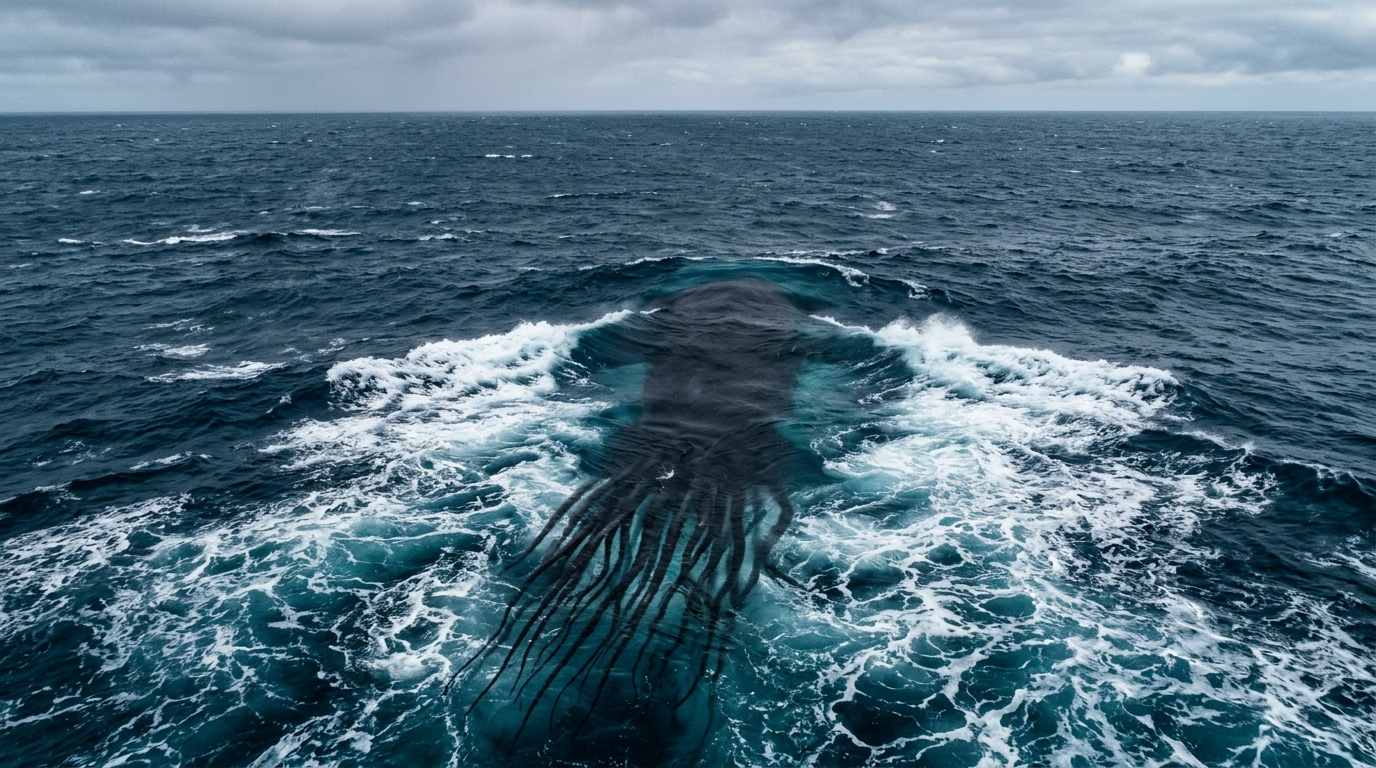
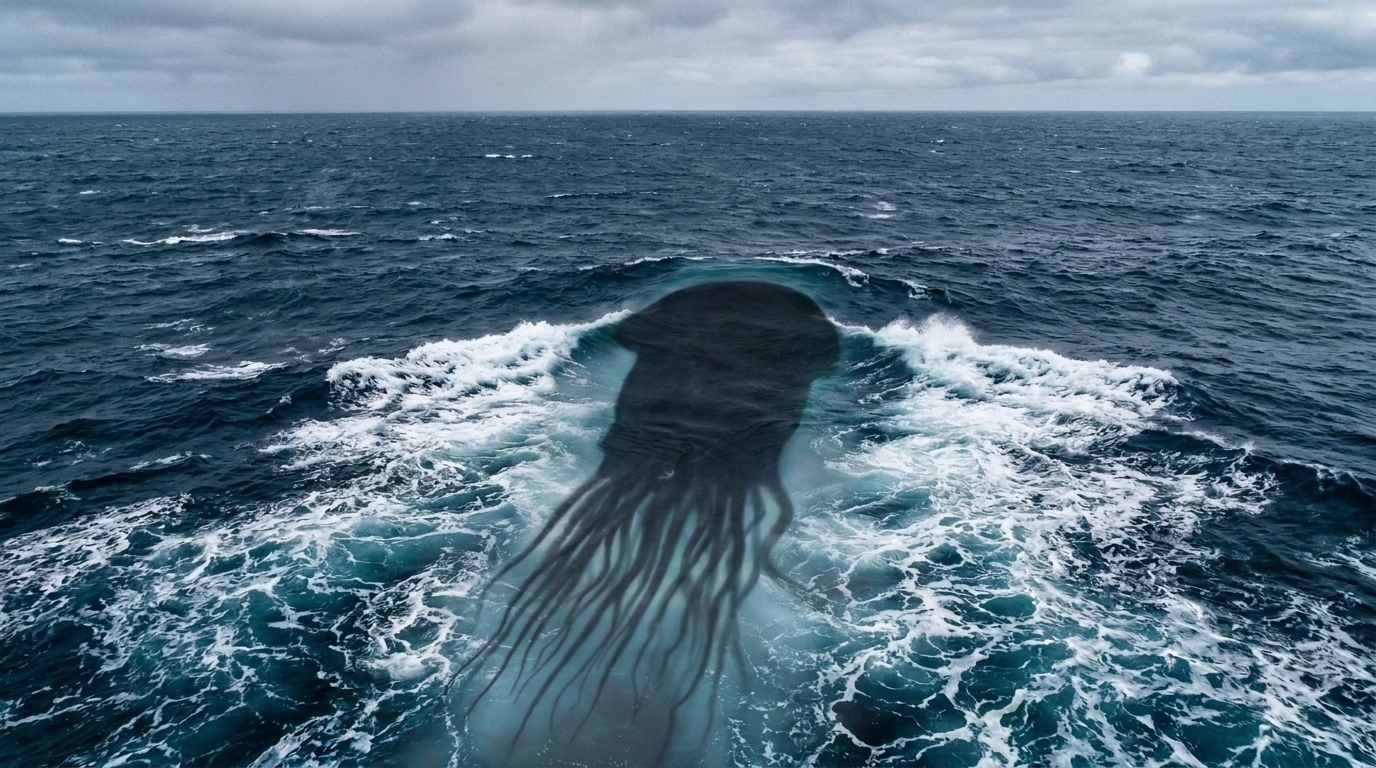
fix(photo): 成功写真の先頭形状からイカの三角形突起を完全排除し、ケルビン波（白波）下に沈むぼやけた無数の触手群へ刷新

diff --git a/src/components/TimelineBoard.tsx b/src/components/TimelineBoard.tsx
@@ -980,13 +980,13 @@ export const TimelineBoard: React.FC<TimelineBoardProps> = ({
 
                           <div className="space-y-1.5 text-[11px] text-slate-300 leading-relaxed">
                             <p>
-                              ・<strong className="text-white">広大な横幅の超群体</strong>: 単体のイカ頭部ではなく、<strong>横幅数百メートルに及ぶ広大な海面下の生体質量</strong>として深海シャドウを記録。
+                              ・<strong className="text-white">広大な横幅の超群体</strong>: イカ特有の三角形頭部や側方ヒレではなく、<strong>先端が滑らかになだらかな弧を描く広大な海面下の漆黒シャドウ</strong>として記録。
                             </p>
                             <p>
-                              ・<strong className="text-white">無数の増殖触手群</strong>: 幅広い後背部全体から、<strong>ダイオウイカ多数が結合した膨大な本数の触手</strong>が束ねられ、海中深くを直線的にたなびく圧倒的シルエット。
+                              ・<strong className="text-white">白波下のぼやけた触手群</strong>: 激しく沸き立つケルビン波（白波・航跡波）の層の<strong>真下の深海に無数の触手が沈んでおり、泡立つ海水を通してぼんやりと透けて見える</strong>深海シルエット。
                             </p>
                             <p>
-                              ・<strong className="text-white">巨大な航跡波</strong>: 広大な横幅の遊泳に伴い、海面には猛烈な白波とV字型のケルビン波が発生。
+                              ・<strong className="text-white">航跡波との平行流動</strong>: 前進遊泳に伴うV字型の白波と、深海に沈む無数の触手群が同調して後方へ直線的に展開。
                             </p>
                           </div>
                         </div>
@@ -1696,8 +1696,8 @@ export const TimelineBoard: React.FC<TimelineBoardProps> = ({
                 {day3PhotoModal === "success" ? (
                   <>
                     ・高度2,500フィート、捜索ヘリ通常光学望遠カメラより前進遊泳する巨大生物の後方からの撮影に成功。<br />
-                    ・単体のイカ頭部ではなく、<strong>横幅数百メートルに達する広大な生体質量（超群体）</strong>が海面下の黒い深海シャドウとして確認できる。<br />
-                    ・その幅広い後背部全体から、<strong>無数に増殖した膨大な触手群</strong>が海中を長く直線的にたなびいており、ダイオウイカ多数の個体が緊密に結合した「超群体（コロニー）」の全貌を捉えた。<br />
+                    ・イカ特有の三角形頭部や側方ヒレではなく、<strong>先端が滑らかになだらかな弧を描く広大な海面下の漆黒生体質量（超群体）</strong>を深海シャドウとして確認できる。<br />
+                    ・激しく泡立つケルビン波（白波・航跡波）の層の<strong>真下の深海に無数の触手群（20本以上）が沈んでおり、泡立つ海水を通してぼんやりと透けて見える</strong>深海シルエットを捉えた。<br />
                     ・海面には広大な横幅に伴う猛烈な白波とケルビン波が渦巻いており、時速約6kmで鳥島から正確に北上を継続中。
                   </>
                 ) : (
